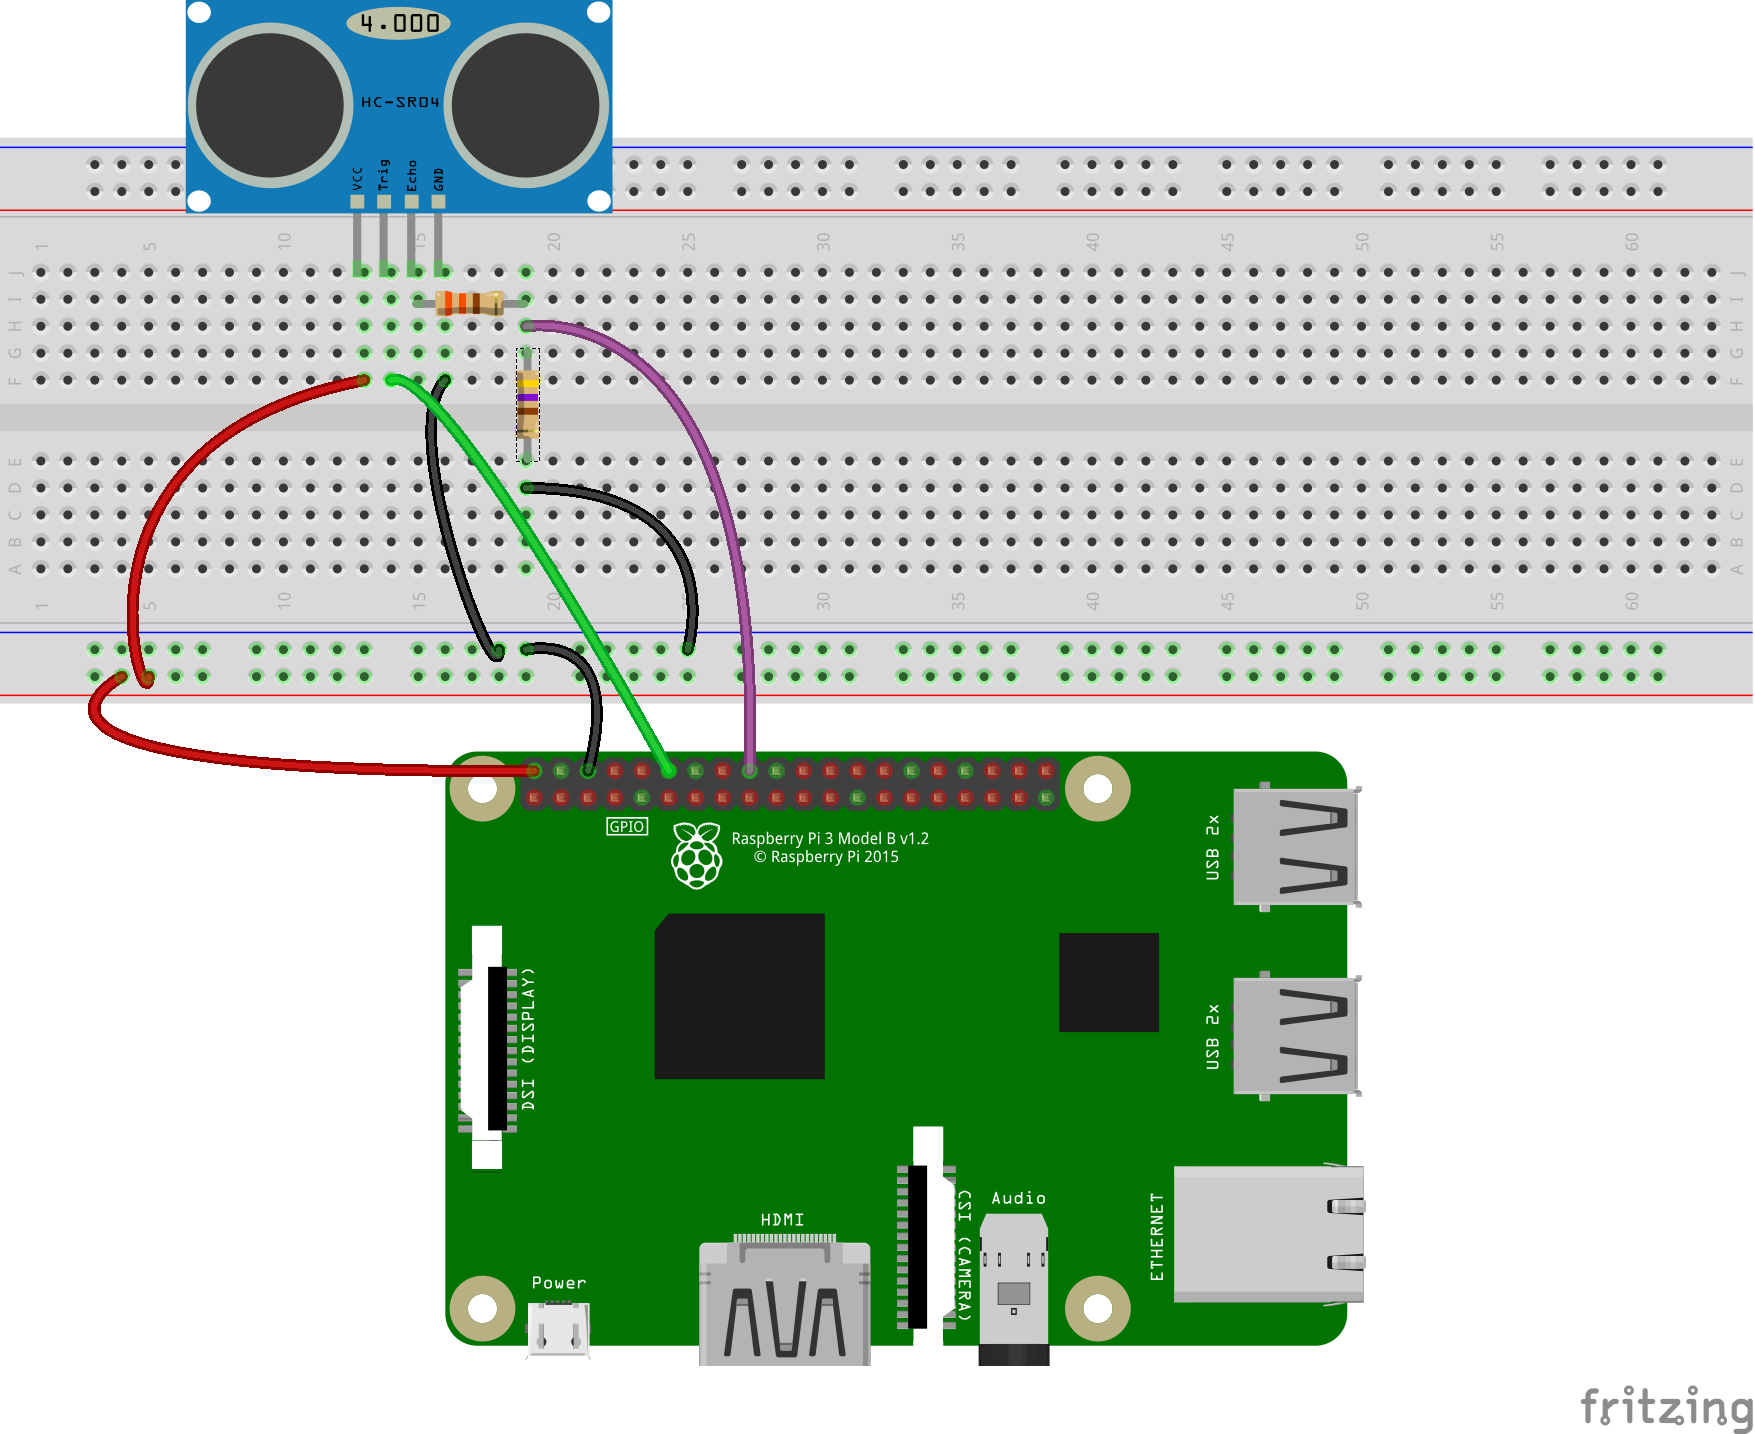
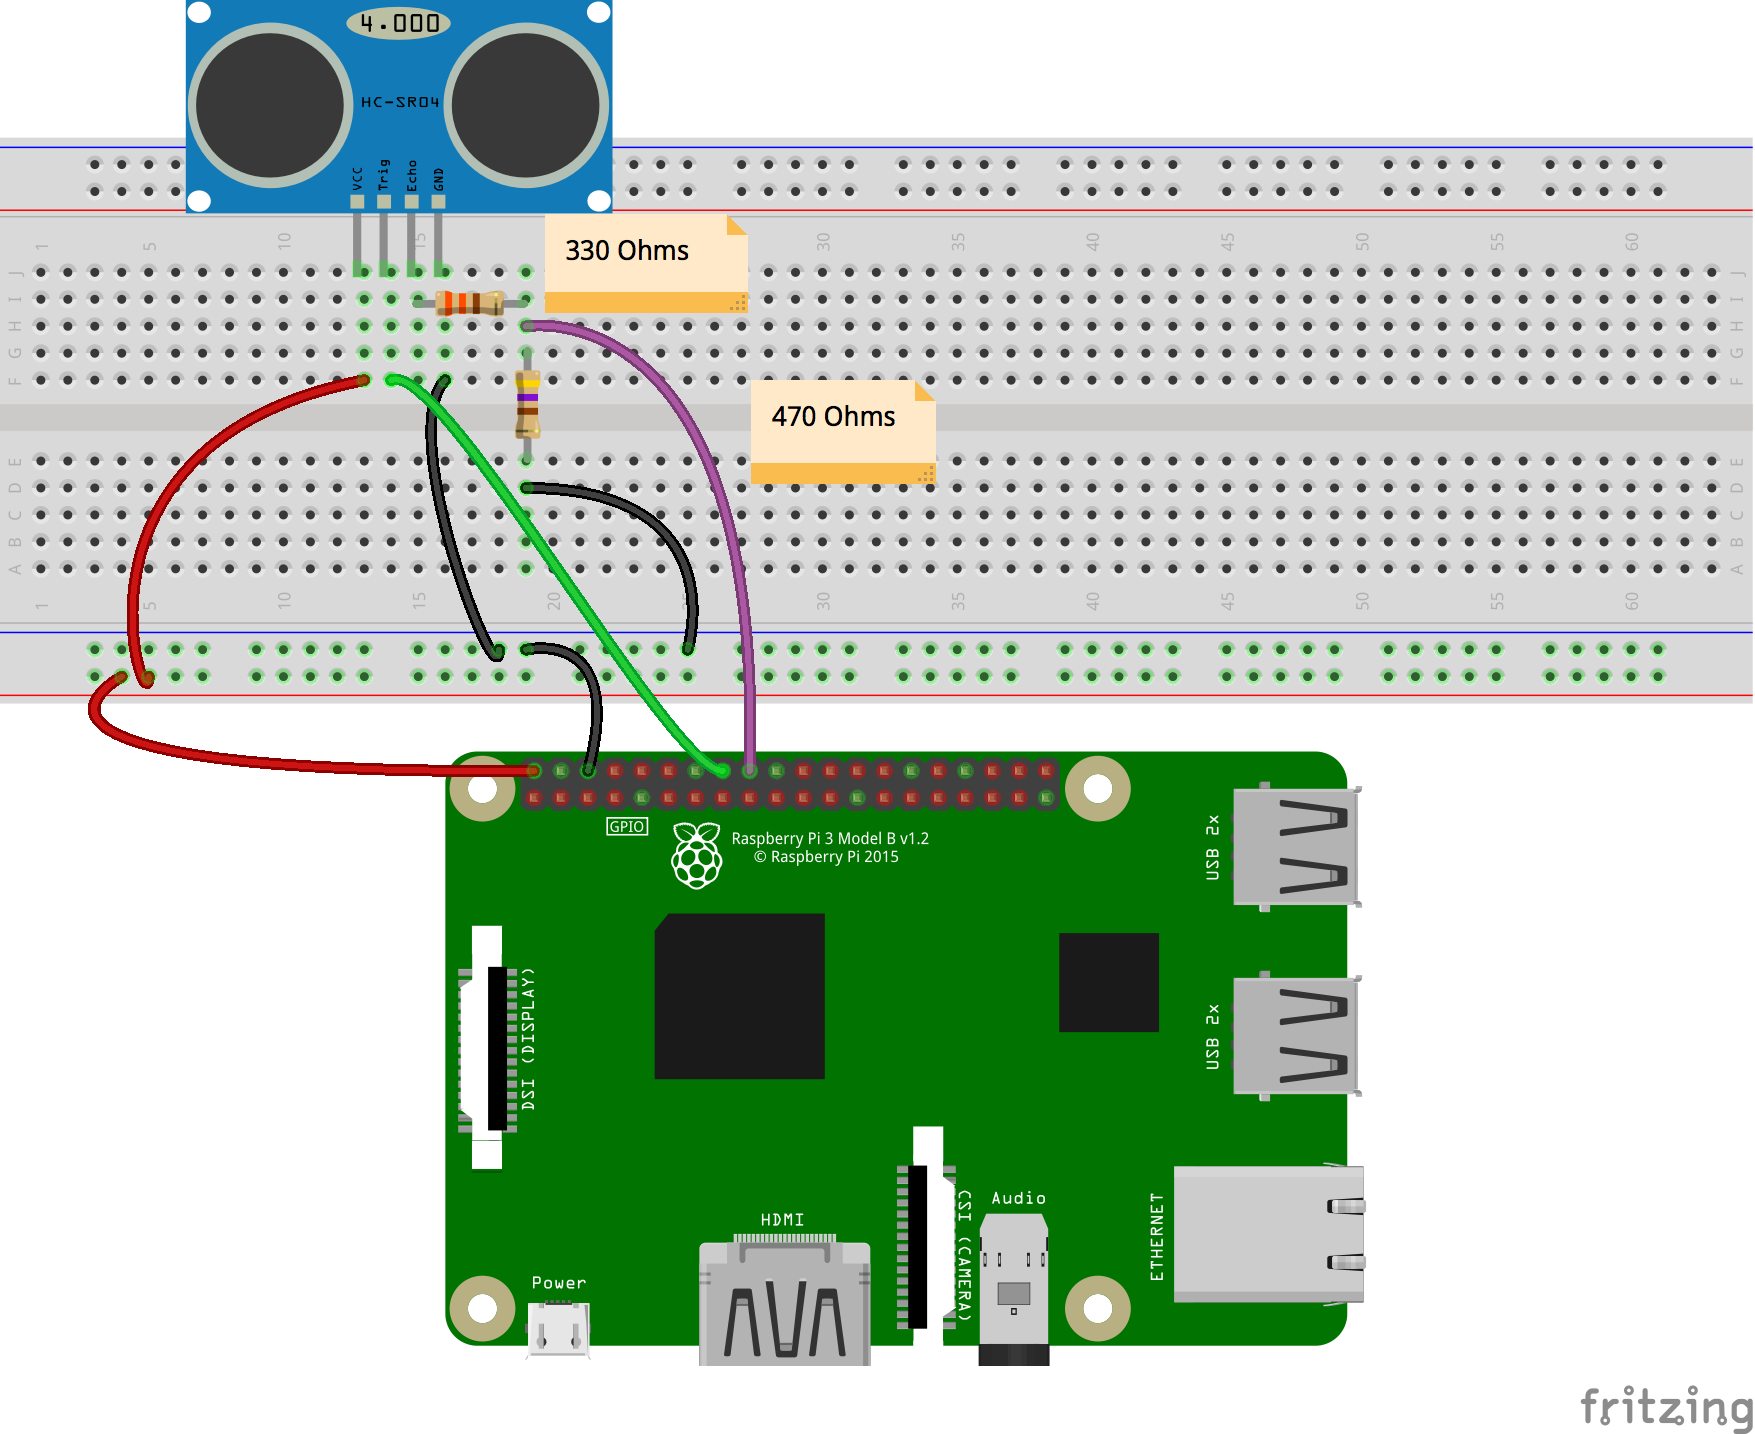
Added the Theremin

Changed region(s): [[0.3077, 0.1227, 0.4308, 0.2455], [0.4308, 0.2455, 0.5538, 0.3375], [0.2769, 0.3375, 0.4308, 0.5523]]

diff --git a/RangeSensor/src/olivsound/Theremin.java b/RangeSensor/src/olivsound/Theremin.java
@@ -1,11 +1,17 @@
-package rangesensor;
+package olivsound;
+
+import javax.sound.midi.Instrument;
+import javax.sound.midi.MidiChannel;
+import javax.sound.midi.MidiSystem;
+import javax.sound.midi.Synthesizer;
+import rangesensor.HC_SR04;
 
 /**
  * Uses WiringPI, bridged with javah.
  * The pure Java implementation (see {@link HC_SR04}.java) seems to have problems
  * with the nano seconds required here.
  */
-public class JNI_HC_SR04 {
+public class Theremin {
 
   public native void init();
   /*
@@ -22,8 +28,17 @@ static int echo    = GPIO24;
   public native void init(int trigPin, int echoPin); // Uses the WiringPi numbers. See default above.
   public native double readRange();
 
-  public static void main(String[] args) {
-    JNI_HC_SR04 jni_hc_sr04 = new JNI_HC_SR04();
+  public static void main(String[] args) throws Exception {
+
+    Synthesizer synth = MidiSystem.getSynthesizer();
+    synth.open();
+
+    final MidiChannel[] mc = synth.getChannels();
+    Instrument[] instr = synth.getDefaultSoundbank().getInstruments();
+
+    synth.loadInstrument(instr[90]);
+
+    Theremin jni_hc_sr04 = new Theremin();
     jni_hc_sr04.init(); // With default prms. See above.
     System.out.println("Initialized. Get closer than 5cm to stop.");
     boolean go = true;
@@ -31,6 +46,12 @@ static int echo    = GPIO24;
       double range = jni_hc_sr04.readRange(); // in meters.
       System.out.println(String.format("Distance is %.2f cm.", (range * 100)));
       go = (range * 100 > 5); // Stops when range is less than 5 cm.
+      if (go) {
+        int note = (int)(Math.round(range * 100)) + 5; // Range [0, 120]
+        mc[5].noteOn(note, 600);
+        Thread.sleep(10);
+        mc[5].noteOff(note);
+      }
     }
     System.out.println("Java is done, bye now.");
   }

diff --git a/RangeSensor/src/olivsound/JavaSoundBasicTest.java b/RangeSensor/src/olivsound/JavaSoundBasicTest.java
@@ -1,0 +1,36 @@
+package olivsound;
+
+import javax.sound.midi.Instrument;
+import javax.sound.midi.MidiChannel;
+import javax.sound.midi.MidiSystem;
+import javax.sound.midi.Synthesizer;
+
+/**
+ * First building block for a olivsound.Theremin...
+ */
+public class JavaSoundBasicTest {
+	public static void main(String... args)
+	throws Exception {
+		Synthesizer synth = MidiSystem.getSynthesizer();
+		synth.open();
+
+		final MidiChannel[] mc = synth.getChannels();
+		Instrument[] instr = synth.getDefaultSoundbank().getInstruments();
+
+		synth.loadInstrument(instr[90]);
+
+		// Scale: 0 to 120
+		for (int i=0; i<120; i++) {
+			mc[5].noteOn(i, 600);
+			Thread.sleep(10);
+			mc[5].noteOff(i);
+		}
+		for (int i=119; i>=0; i--) {
+			mc[5].noteOn(i, 600);
+			Thread.sleep(20);
+			mc[5].noteOff(i);
+		}
+		Thread.sleep(1000);
+	}
+}
+

diff --git a/RangeSensor/C/WiringPi_HC_SR04.c b/RangeSensor/C/WiringPi_HC_SR04.c
@@ -14,11 +14,11 @@
 
 using namespace std;
 
-//static int trigger = GPIO23;
-//static int echo    = GPIO24;
+static int trigger = GPIO23;
+static int echo    = GPIO24;
 
-static int trigger = GPIO22;
-static int echo    = GPIO27;
+//static int trigger = GPIO22;
+//static int echo    = GPIO27;
 
 static volatile long startTimeUsec;
 static volatile long endTimeUsec;

diff --git a/RangeSensor/C/hc-sr04.c b/RangeSensor/C/hc-sr04.c
@@ -22,6 +22,10 @@ void recordPulseLength (void) {
 /**
  * Uses the HC SR04 ultrasonic sensor to measure distance. The HC SR04
  * provides 2cm to 400cm range measurement.
+ *
+ * WARNING: This is a standalone version.
+ *          This is NOT the one used from Java
+ *          See WiringPI_HC_SR04
  */
 int main()
 {

diff --git a/RangeSensor/README.md b/RangeSensor/README.md
@@ -13,3 +13,7 @@ Interesting.
 #### Wiring
 
 ![Wiring](./HC-SR04_bb.png)
+
+Make sure the pins you use match the code.
+
+You can run the pure C version, see in the `C` directory, the script `c.compile` will prduce the executable.
